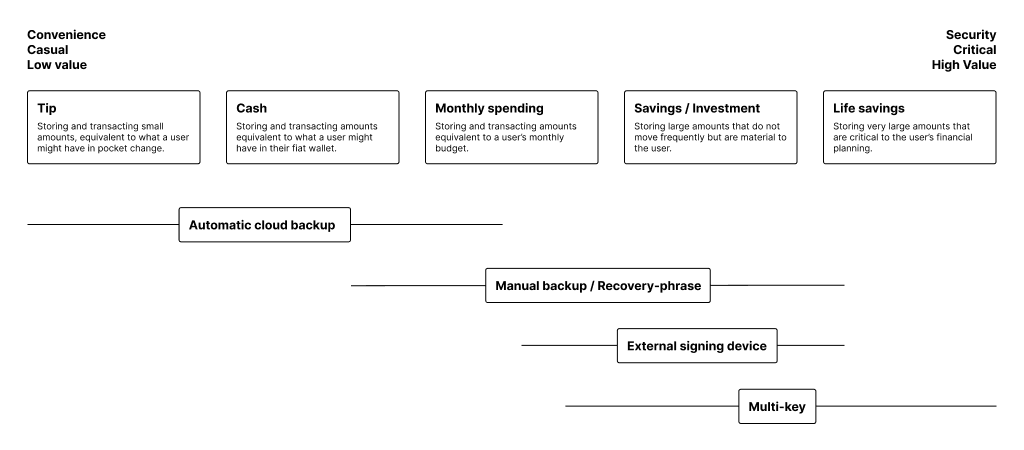
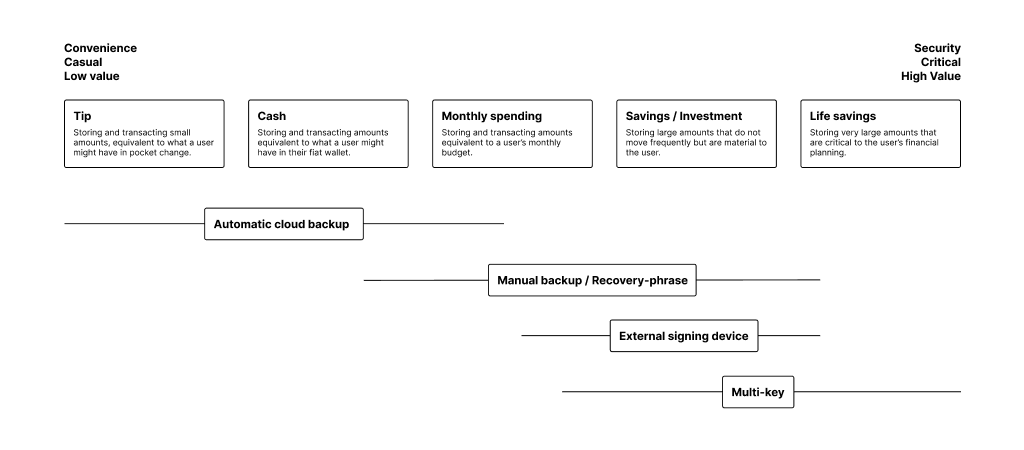
Tweak spectrum to match width of flow-chart, remove full-width

Changed region(s): [[0.0312, 0.0622, 0.9688, 0.3733], [0.3438, 0.56, 0.9375, 0.9333], [0.1562, 0.4356, 0.375, 0.56]]

diff --git a/guide/private-key-management/schemes.md b/guide/private-key-management/schemes.md
@@ -69,7 +69,6 @@ Now that you have a clear picture of your use case, target audience and risk vec
    caption = "The range of private key management schemes."
    width = 1024
    height = 450
-   layout = "full-width"
 %}
 
 {% include image.html
@@ -81,7 +80,6 @@ Now that you have a clear picture of your use case, target audience and risk vec
    caption = "A flow-chart for picking a scheme based on use case."
    width = 1024
    height = 650
-   layout = "full-width"
 %}
 
 We can divide the options up into personal and shared wallet schemes. The following pages explain each one in more detail:
